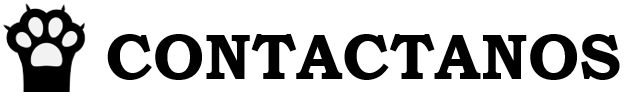
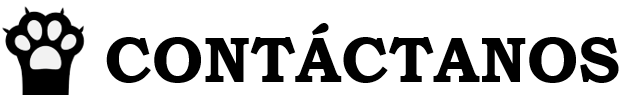
upload

Changed region(s): [[0.0, 0.0303, 1.0, 0.9394], [0.2736, 0.7879, 0.304, 0.8182]]

diff --git a/PROYECTO_FINAL/Iniciar_Sesion/iniciar_sesion.html b/PROYECTO_FINAL/Iniciar_Sesion/iniciar_sesion.html
@@ -5,6 +5,7 @@
     <meta charset="UTF-8">
     <meta name="viewport" content="width=device-width, initial-scale=1.0">
     <title>Iniciar Sesión</title>
+    <link rel="shortcut icon" href="../iconos/descarga_Og9_icon.ico" type="image/x-icon">
     <link rel="stylesheet" href="https://stackpath.bootstrapcdn.com/bootstrap/4.4.1/css/bootstrap.min.css" integrity="sha384-Vkoo8x4CGsO3+Hhxv8T/Q5PaXtkKtu6ug5TOeNV6gBiFeWPGFN9MuhOf23Q9Ifjh" crossorigin="anonymous">
     <link rel="stylesheet" href="../css/index.css">
     <link rel="stylesheet" href="css/iniciar_sesion.css">
@@ -17,7 +18,7 @@
 
 <body>
     <header>
-        <h1>INICIAR SESION</h1>
+        <img src="../iconos/Captura.PNG" alt="" style="width: 30%">
     </header>
     <div class="container">
 
@@ -42,7 +43,7 @@
 
                     <div class="col-md-6 d-flex justify-content-center justify-content-md-start">
                         <h3>
-                            <a href="../Contactanos/contactanos.html">CONTACTENOS</a>
+                            <a href="../Contactanos/contactanos.html">CONTÁCTANOS</a>
                             <span class="glyphicon glyphicon-asterisk"></span>
                         </h3>
                     </div>
@@ -63,7 +64,7 @@
         </div>
         <div class="bg-dark text-white text-center py-1">
             <small>
-                © 2020 Todos los Derechos Reservados
+                Copyright © 2020 AUBLACKATS.
             </small>
         </div>
     </footer>

diff --git a/PROYECTO_FINAL/Contactanos/contactanos.html b/PROYECTO_FINAL/Contactanos/contactanos.html
@@ -5,6 +5,7 @@
     <meta charset="UTF-8">
     <meta name="viewport" content="width=device-width, initial-scale=1.0">
     <title>Contactanos</title>
+    <link rel="shortcut icon" href="../iconos/descarga_Og9_icon.ico" type="image/x-icon">
     <link rel="stylesheet" href="https://stackpath.bootstrapcdn.com/bootstrap/4.4.1/css/bootstrap.min.css" integrity="sha384-Vkoo8x4CGsO3+Hhxv8T/Q5PaXtkKtu6ug5TOeNV6gBiFeWPGFN9MuhOf23Q9Ifjh" crossorigin="anonymous">
     <link rel="stylesheet" href="../css/index.css">
     <link rel="stylesheet" href="css/contactanos.css">
@@ -18,7 +19,7 @@
 
 <body>
     <header>
-        <h1>CONTACTENOS</h1>
+        <img src="imgs/Captura.PNG" alt="" style="width: 30%">
     </header>
 
     <div class="container">
@@ -52,7 +53,7 @@
 
                     <div class="col-md-6 d-flex justify-content-center justify-content-md-start">
                         <h3>
-                            <a href="../Contactanos/contactanos.html">CONTACTENOS</a>
+                            <a href="../Contactanos/contactanos.html">CONTÁCTANOS</a>
                             <span class="glyphicon glyphicon-asterisk"></span>
                         </h3>
                     </div>
@@ -72,7 +73,7 @@
         </div>
         <div class="bg-dark text-white text-center py-1">
             <small>
-                © 2020 Todos los Derechos Reservados
+                Copyright © 2020 AUBLACKATS.
             </small>
         </div>
     </footer>

diff --git a/PROYECTO_FINAL/Inicio/inicio.html b/PROYECTO_FINAL/Inicio/inicio.html
@@ -5,7 +5,7 @@
     <meta charset="UTF-8">
     <meta name="viewport" content="width=device-width, initial-scale=1.0">
     <title>AUBLACKCATS</title>
-
+    <link rel="shortcut icon" href="../iconos/descarga_Og9_icon.ico" type="image/x-icon">
     <link rel="stylesheet" href="https://stackpath.bootstrapcdn.com/bootstrap/4.4.1/css/bootstrap.min.css" integrity="sha384-Vkoo8x4CGsO3+Hhxv8T/Q5PaXtkKtu6ug5TOeNV6gBiFeWPGFN9MuhOf23Q9Ifjh" crossorigin="anonymous">
     <link rel="stylesheet" href="../css/index.css">
     <link rel="stylesheet" href="css/inicio.css">
@@ -102,7 +102,7 @@
                         y a la IZQUIERDA para pantalllas más grandes de 768px
                      -->
                     <div class="col-md-6 d-flex justify-content-center justify-content-md-start ">
-                        <h3><a href="../Contactanos/contactanos.html">CONTACTENOS</a>
+                        <h3><a href="../Contactanos/contactanos.html">CONTÁCTANOS</a>
                             <span class="glyphicon glyphicon-asterisk "></span>
                         </h3>
                     </div>
@@ -127,7 +127,7 @@
         </div>
         <div class="bg-dark text-white text-center py-1 ">
             <small>
-               AUBLACKCATS © 2020 All rights reserved
+                Copyright © 2020 AUBLACKATS.
             </small>
         </div>
     </footer>

diff --git a/PROYECTO_FINAL/Pagina_Principal/pagina_principal.html b/PROYECTO_FINAL/Pagina_Principal/pagina_principal.html
@@ -5,6 +5,7 @@
     <meta charset="UTF-8">
     <meta name="viewport" content="width=device-width, initial-scale=1.0">
     <title>Principal</title>
+    <link rel="shortcut icon" href="../iconos/descarga_Og9_icon.ico" type="image/x-icon">
     <link rel="stylesheet" href="https://stackpath.bootstrapcdn.com/bootstrap/4.4.1/css/bootstrap.min.css" integrity="sha384-Vkoo8x4CGsO3+Hhxv8T/Q5PaXtkKtu6ug5TOeNV6gBiFeWPGFN9MuhOf23Q9Ifjh" crossorigin="anonymous">
     <link rel="stylesheet" href="../css/index.css">
     <link rel="stylesheet" href="css/pagina_principal.css">
@@ -23,7 +24,7 @@
 
                     <div class="col-md-6 d-flex justify-content-center justify-content-md-start">
                         <h3>
-                            <a href="../Contactanos/contactanos.html">CONTACTENOS</a>
+                            <a href="../Contactanos/contactanos.html">CONTÁCTANOS</a>
                             <span class="glyphicon glyphicon-asterisk"></span>
                         </h3>
                     </div>
@@ -44,7 +45,7 @@
         </div>
         <div class="bg-dark text-white text-center py-1">
             <small>
-                © 2020 Todos los Derechos Reservados
+                Copyright © 2020 AUBLACKATS.
             </small>
         </div>
     </footer>

diff --git a/PROYECTO_FINAL/Registro/registro.html b/PROYECTO_FINAL/Registro/registro.html
@@ -5,6 +5,7 @@
     <meta charset="UTF-8">
     <meta name="viewport" content="width=device-width, initial-scale=1.0">
     <title>Registro</title>
+    <link rel="shortcut icon" href="../iconos/descarga_Og9_icon.ico" type="image/x-icon">
     <link rel="stylesheet" href="https://stackpath.bootstrapcdn.com/bootstrap/4.4.1/css/bootstrap.min.css" integrity="sha384-Vkoo8x4CGsO3+Hhxv8T/Q5PaXtkKtu6ug5TOeNV6gBiFeWPGFN9MuhOf23Q9Ifjh" crossorigin="anonymous">
     <link rel="stylesheet" href="../css/index.css">
     <link rel="stylesheet" href="css/registro.css">
@@ -114,7 +115,7 @@
 
                     <div class="col-md-6 d-flex justify-content-center justify-content-md-start">
                         <h3>
-                            <a href="../Contactanos/contactanos.html">CONTACTENOS</a>
+                            <a href="../Contactanos/contactanos.html">CONTÁCTANOS</a>
                             <span class="glyphicon glyphicon-asterisk"></span>
                         </h3>
                     </div>
@@ -136,7 +137,7 @@
         </div>
         <div class="bg-dark text-white text-center py-1">
             <small>
-                © 2020 Todos los Derechos Reservados
+                Copyright © 2020 AUBLACKATS.
             </small>
         </div>
     </footer>

diff --git a/PROYECTO_FINAL/Inicio/css/inicio.css b/PROYECTO_FINAL/Inicio/css/inicio.css
@@ -26,11 +26,12 @@ h5 {
     -moz-transition: all 0.3s;
     transition: all 0.3s;
     font-weight: 700;
+    border-radius: 20px;
 }
 
 .myButton:hover {
     background-color: rgba(0, 0, 0, 0);
-    color: #0493bd;
+    color: #64686b;
 }
 
 .myButton:active {
